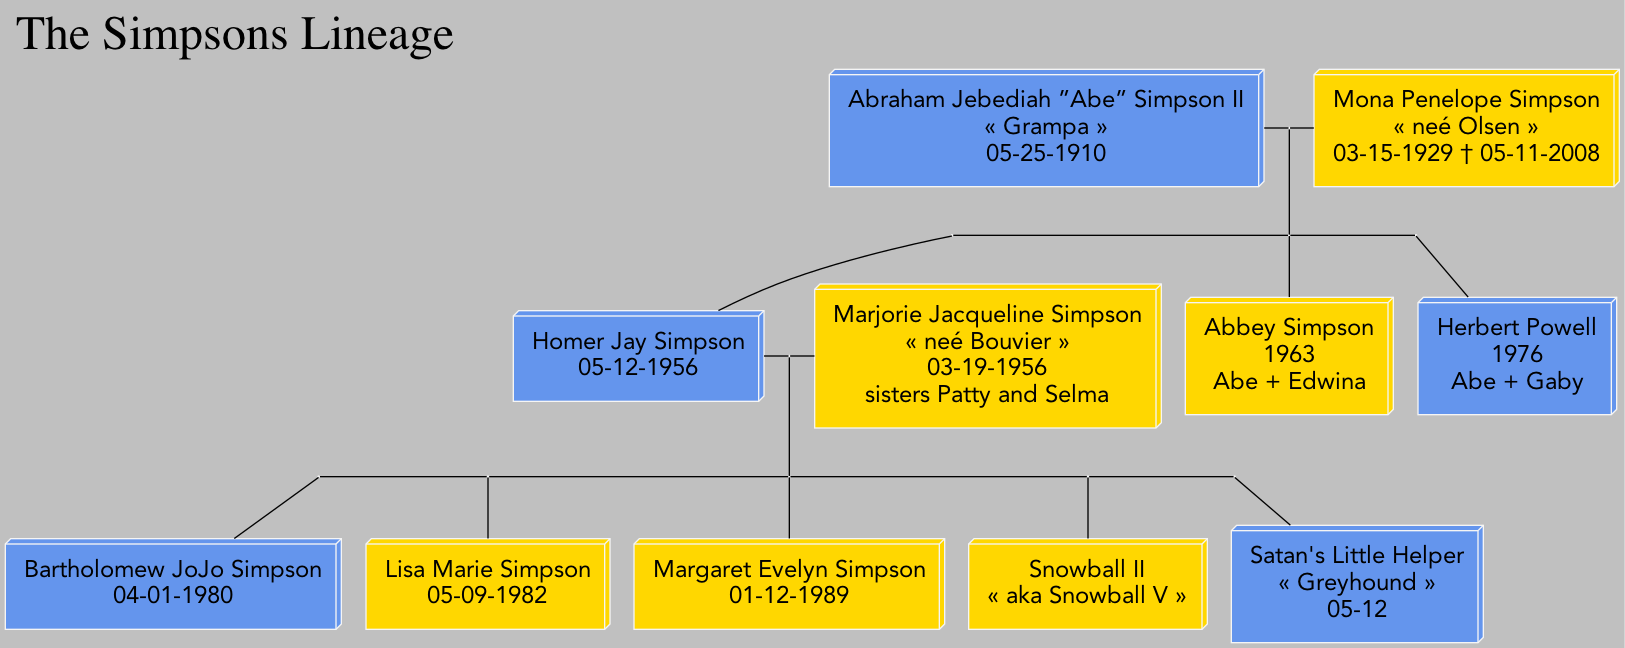
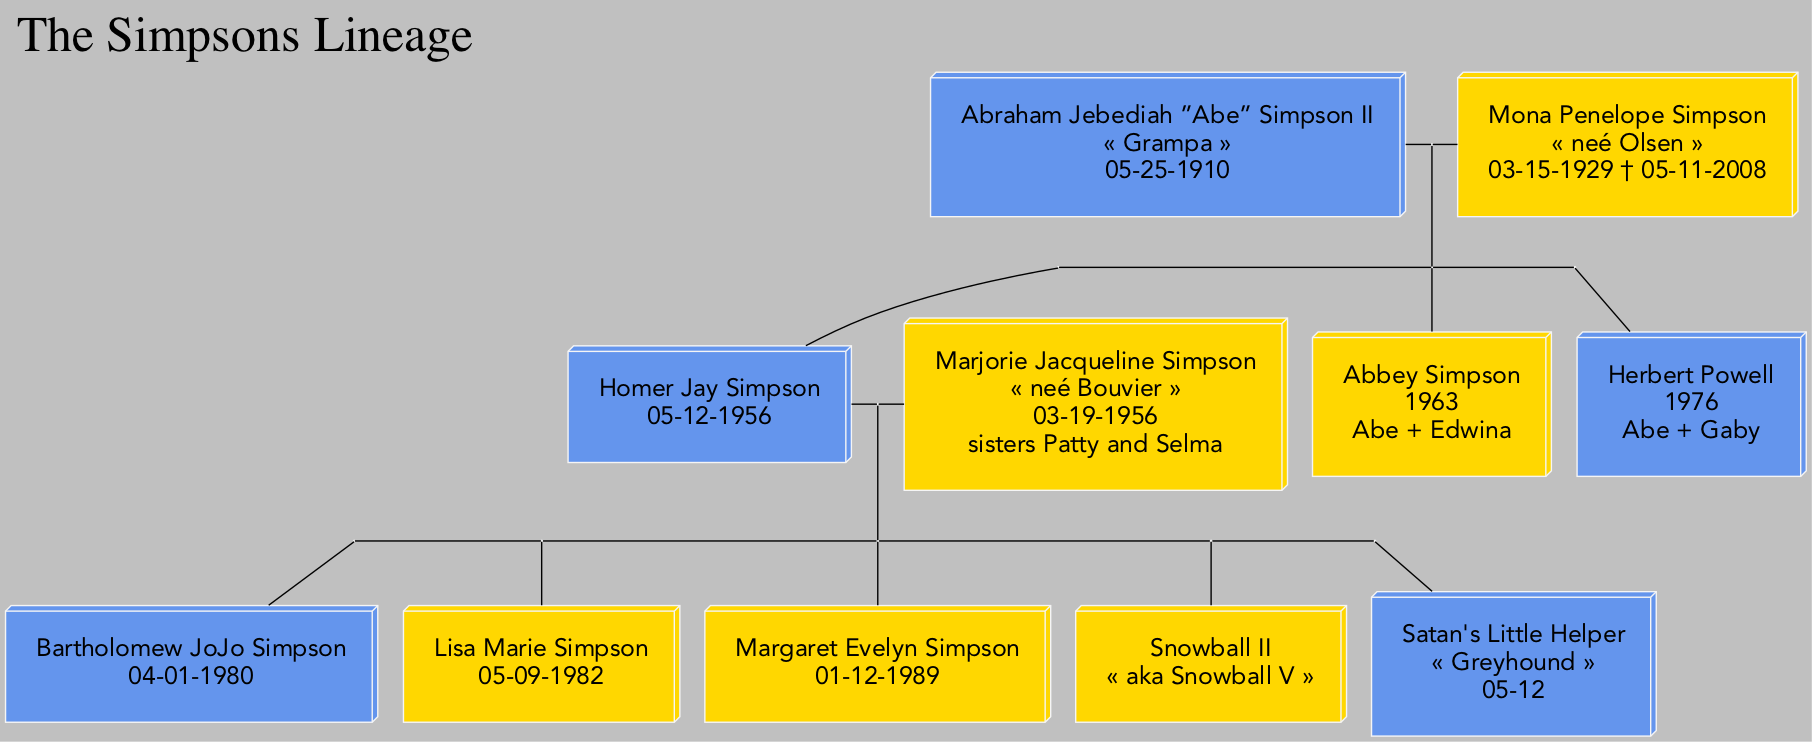
more styling

diff --git a/familytreemaker.py b/familytreemaker.py
@@ -329,8 +329,8 @@ class Family:
 		"""
 		# Find the first households
 		gen = [ancestor]
-		print('digraph {graph [label = "The Simpsons Lineage", labelloc=t, labeljust=l, bgcolor=grey, fontsize=36]\n' + \
-			'\tnode [shape=box3d, color=whitesmoke, margin=.2];\n' + \
+		print('digraph {graph [dpi=100, label = "The Simpsons Lineage", labelloc=t, labeljust=l, bgcolor=grey, fontsize=36]\n' + \
+			'\tnode [shape=box3d, color=whitesmoke, margin=.3];\n' + \
 			'\tedge [dir=none];\n')
 
 		for p in self.everybody.values():
